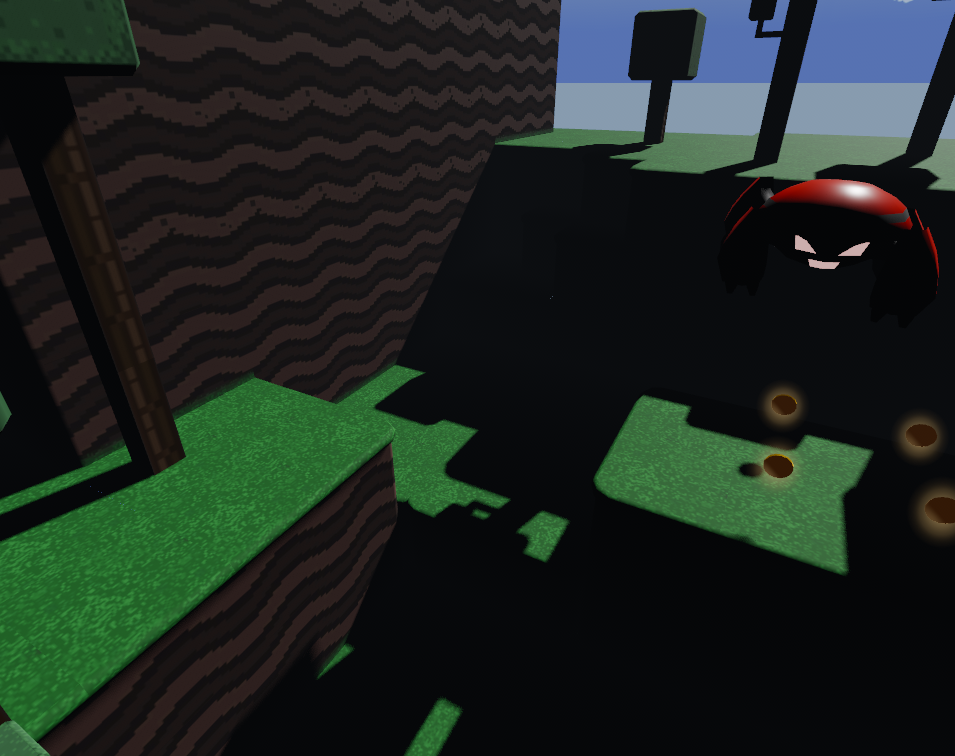
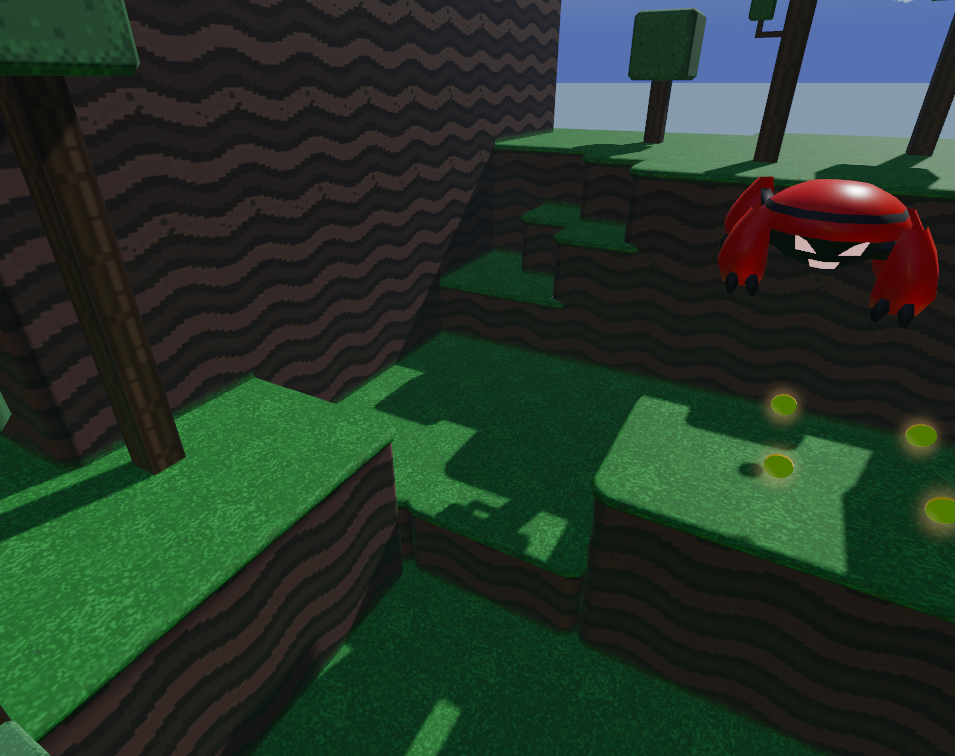
fix(godot-ref): wait for ReflectionProbe captures and hide CanvasLayers in 3D references
The 3D reference saved its frame after six frames. An UPDATE_ONCE
ReflectionProbe renders its faces in one frame and filters one roughness
layer per frame after that, and the scene renders one such probe at a
time (renderer_scene_cull.cpp:3739-3751, light_storage.cpp:1661-1668). So
most probes were still empty, and the platformer reference drew its
shadowed ground black. The bootstrap now draws one frame per probe per
roughness layer before it saves.

Under the previews the bootstrap hides every CanvasLayer in a 3D scene.
The editor keeps the edited scene under the 2D editor's viewport
(editor_node.cpp:8648), and a CanvasLayer attaches to its own viewport
(canvas_layer.cpp:174-177), so the 3D editor view never draws one. The
platformer reference drew the touch-screen buttons.

The platformer comparison is recaptured on both sides: 9.8/255 against
Godot, down from 19.5/255. Depth fog (#668) moves it closer to Godot
(11.0/255 without the fog).

diff --git a/docs/comparison/sheets/complex-3d-platformer.md b/docs/comparison/sheets/complex-3d-platformer.md
@@ -18,7 +18,8 @@ enemy and coins under a blue sky. Both sides use the same editor orbit.
 - StandardMaterial3D albedo textures
 - Textured mesh characters and props, including a GLB enemy that self-shadows
 - Coin instances with additive glow sprites
-- The stage's own WorldEnvironment: AgX tonemapping and a flat colour ambient
+- The stage's own WorldEnvironment: AgX tonemapping, a flat colour ambient and depth fog
+- Seven ReflectionProbes that update once
 
 Framing, terrain, props and shadow shapes match.
 
@@ -26,5 +27,5 @@ Framing, terrain, props and shadow shapes match.
 
 - **Shader missing** The previewer does not run the custom `sky` shader over a
   `CompressedCubemap`, so smooth metal reflects black and the coins read grey, not gold.
-- **Resource gap** The ReflectionProbe nodes have no effect, so recesses are lighter and the
-  coin halos look faint.
+- **Resource gap** The ReflectionProbe nodes have no effect, so shadowed ground and recesses
+  take the flat ambient, not the darker probe captures Godot uses.
